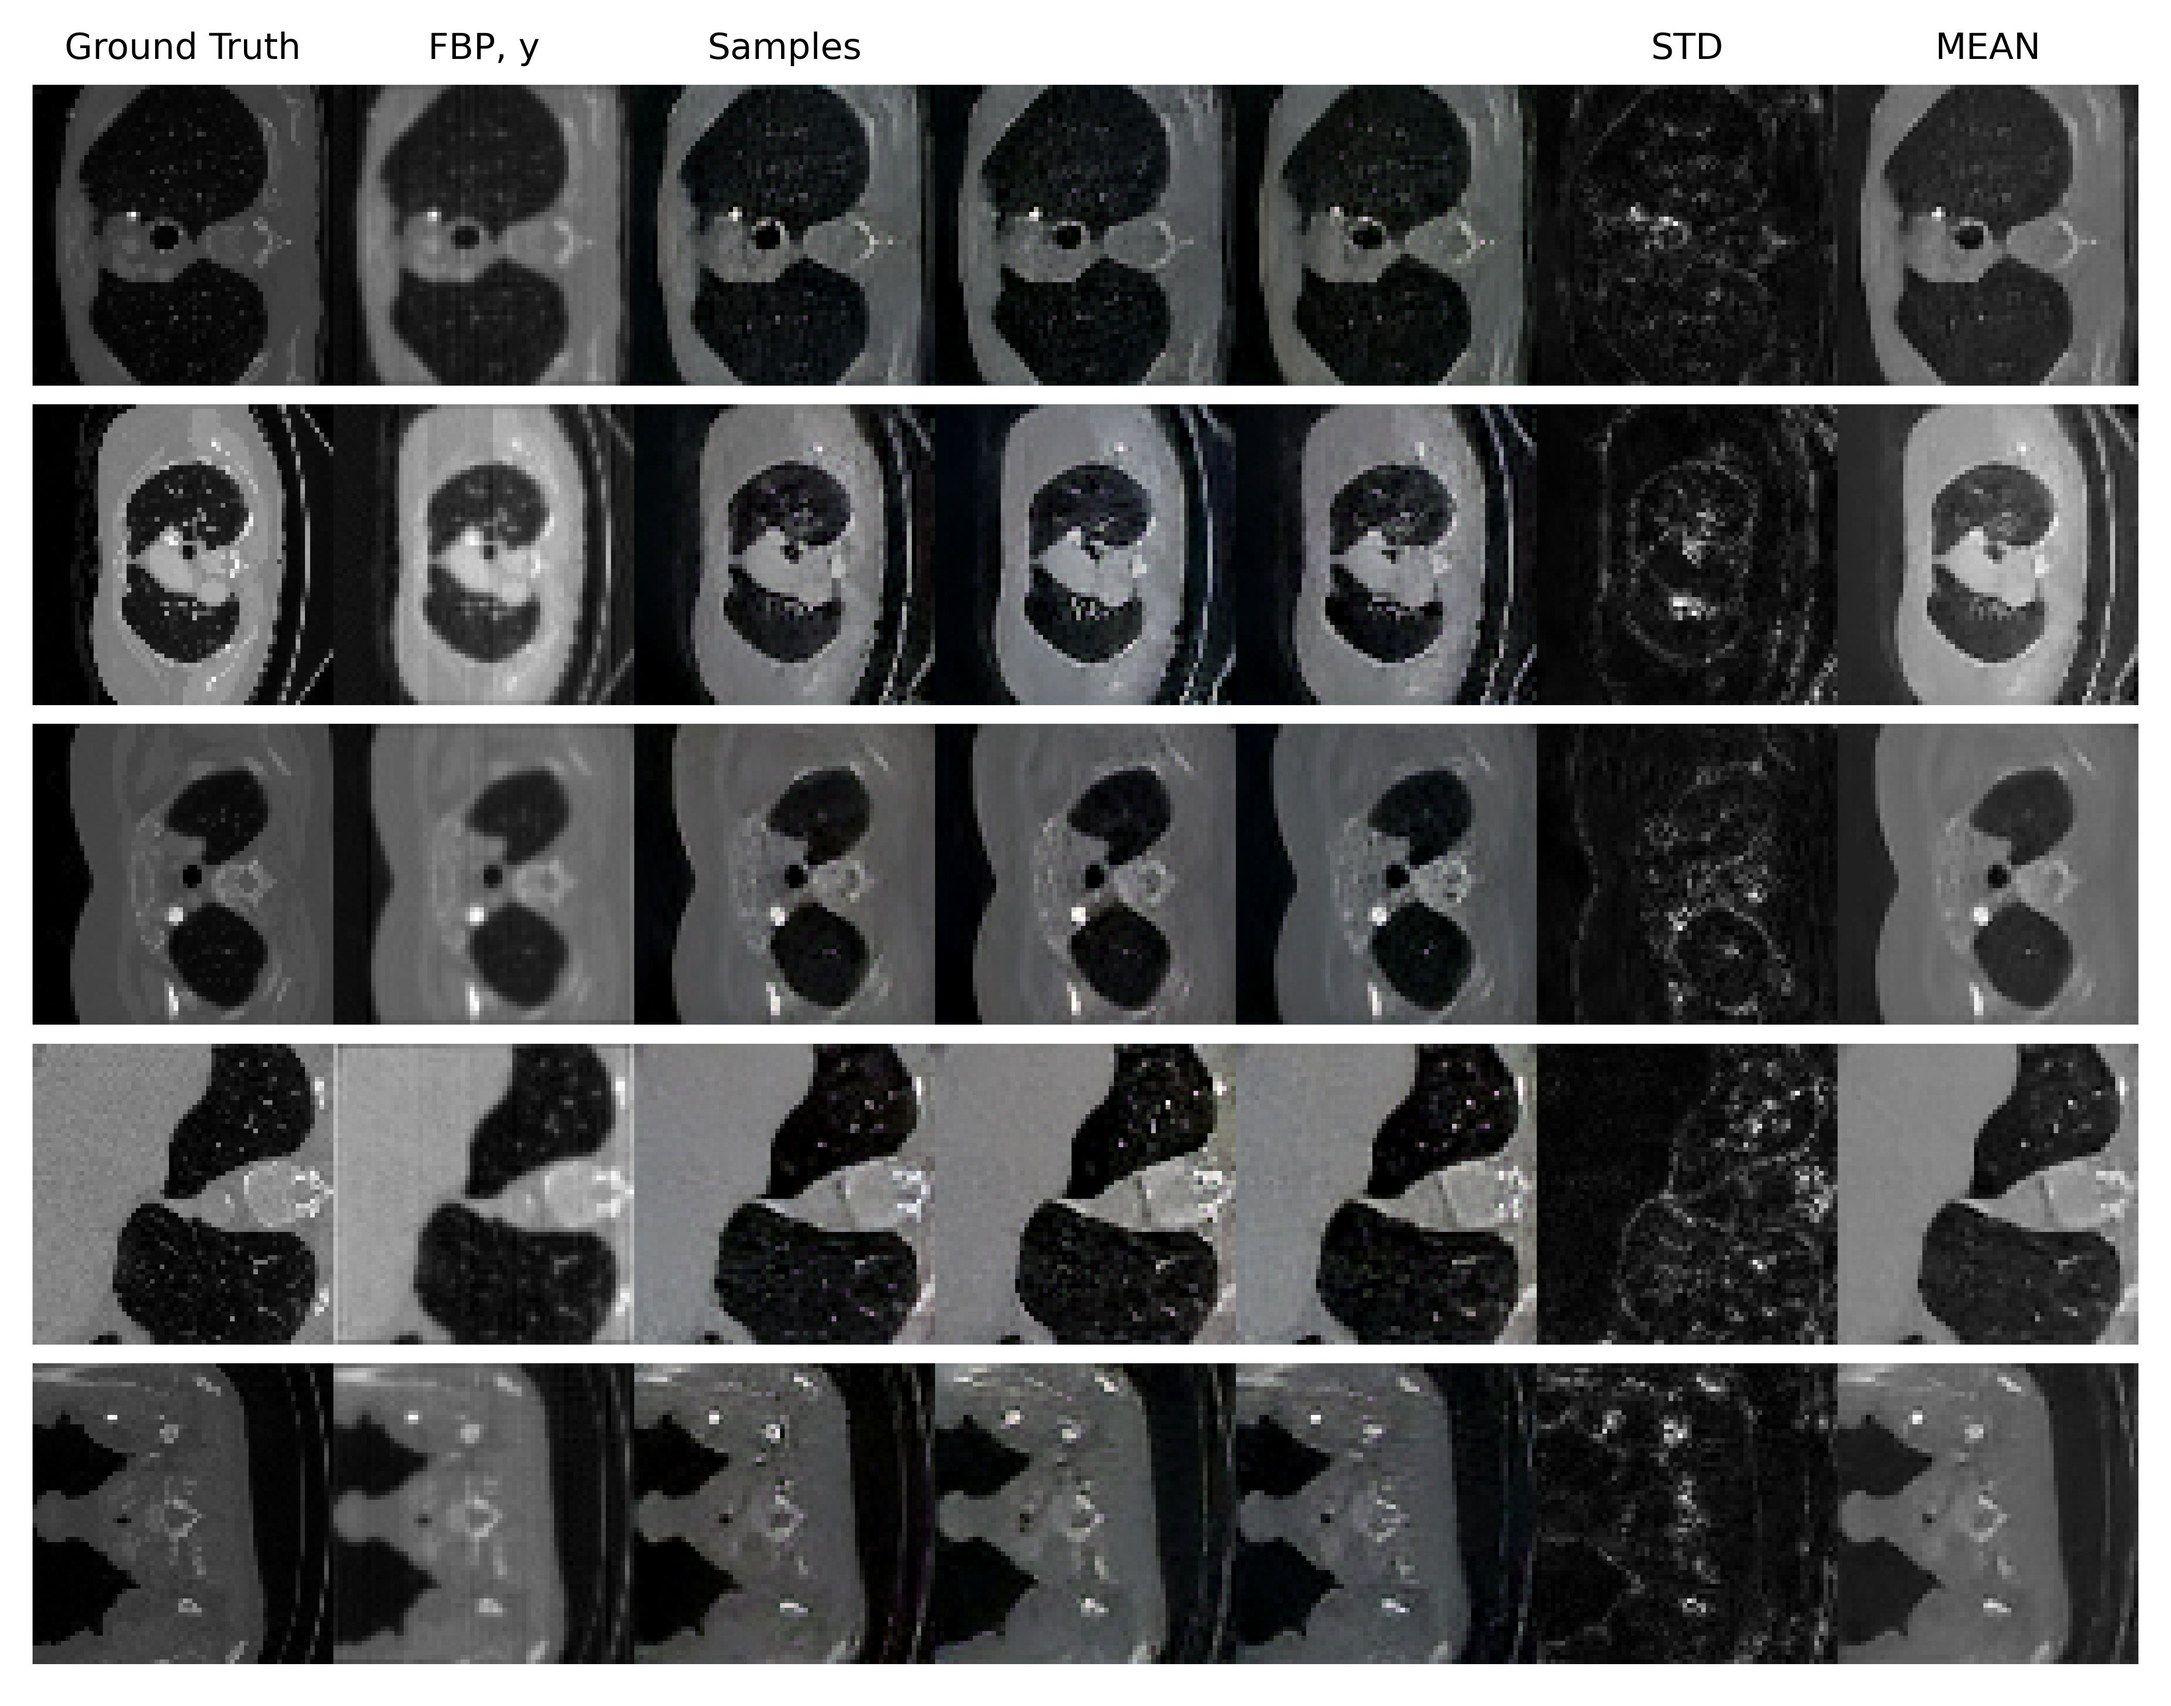
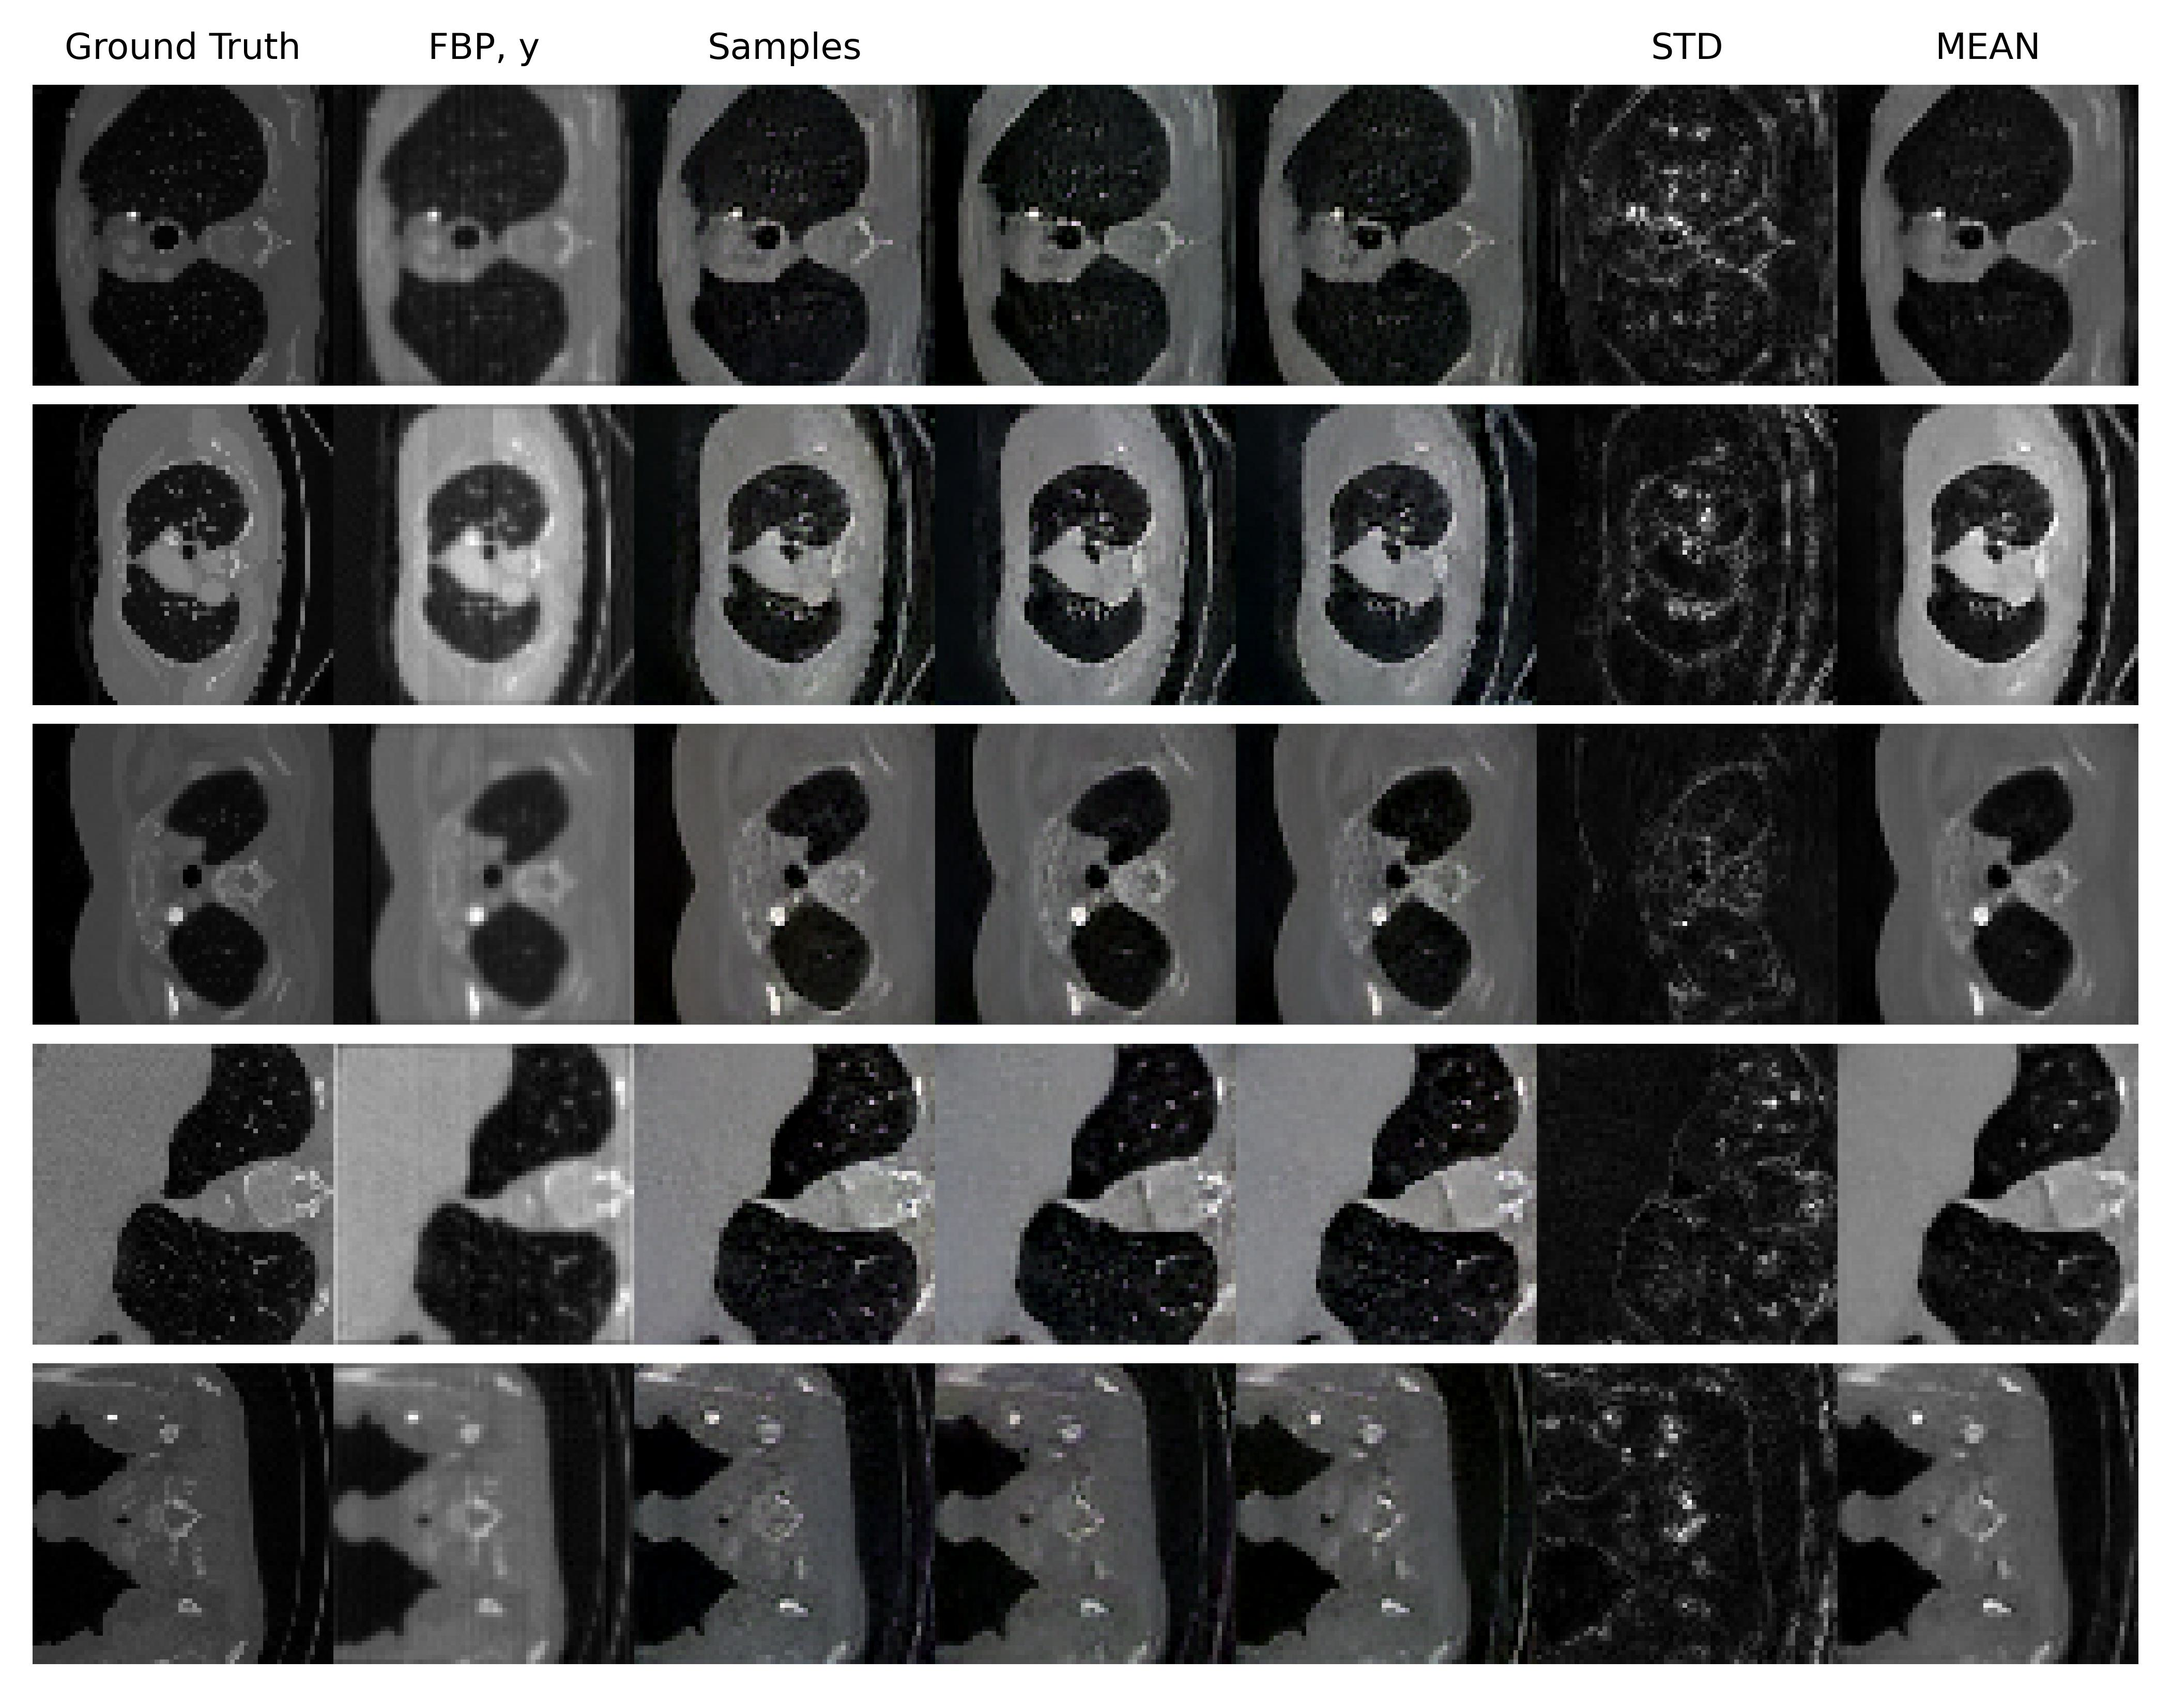
Add psnr and snr estimation

diff --git a/main.py b/main.py
@@ -16,6 +16,7 @@ from torch.optim import Adam
 from ema import ExponentialMovingAverage
 from tqdm import tqdm
 from datetime import datetime
+from skimage.metrics import peak_signal_noise_ratio
 
 # Local file imports
 from ldm.util import instantiate_from_config
@@ -23,6 +24,7 @@ from ldm.models.diffusion.psld import DDIMSampler
 from functions import marginal_prob_std
 from functions import diffusion_coeff
 from models.models import ScoreNet
+from functions import compute_snr
 
 
 # Datasets
@@ -51,16 +53,16 @@ learning_rate = 1e-3
 losses = []
 n_skip_epochs = 4  # Number of epochs to skip for plotting the training
 image_channels = 6
-experiment_dir = "experiments/experiment7/"  # Directory where checkpoint is
+experiment_dir = "experiments/experiment6/"  # Directory where checkpoint is
 
 # Sampling
 num_steps = 100  # Number of sampling steps
 sample_batch_size = 5
 n_angles = 90
 theta_low = 0  # lower value for angles
-theta_max = 90  # higher value for angles
+theta_max = 180  # higher value for angles
 angles = np.linspace(theta_low, theta_max, n_angles)
-n_posterior_samples = 10
+n_posterior_samples = 4
 global_tau = 0.5
 sampling_dir = "sampling1/"  # Directory for current sampling instance
 n_column_samples = 5
@@ -318,6 +320,7 @@ def generate_samples(marginal_prob_std_fn, score_model, diffusion_coeff_fn, im_d
     for i in range(n_posterior_samples):
         for j in range(sample_batch_size):
             samples_clean[i, j:j+1] = autoencoder_model.decode(encoded_samples_clean[i][j:j+1])
+    samples_clean = torch.clamp(samples_clean, min=0, max=1)
 
     # Get STD of samples ===============================================================================================
     # samples tensor has dimensions n_posterior_samples x sample_batch_size x n_channels x im_size x im_size
@@ -332,7 +335,21 @@ def generate_samples(marginal_prob_std_fn, score_model, diffusion_coeff_fn, im_d
     column_visualization(true_images, samples_fbp_clean, samples_clean, rescaled_samples_clean_std, samples_clean_mean,
                          "FBP, y", "Samples", "column_visualization")
 
+    # Compute average SNR and PSNR for samples =========================================================================
+    samples_average_snr = 0
+    samples_average_psnr = 0
+    for i in range(sample_batch_size):
+        samples_average_snr += compute_snr(torch.from_numpy(true_images[i]).permute(2, 0, 1).detach().cpu().numpy(),
+                                           samples_clean_mean[0, i])
+        samples_average_psnr += peak_signal_noise_ratio(
+            torch.from_numpy(true_images[i]).permute(2, 0, 1).detach().cpu().numpy(),
+            samples_clean_mean[0, i])
+    samples_average_psnr = samples_average_psnr / sample_batch_size
+    samples_average_snr = samples_average_snr / sample_batch_size
 
+    print("Sampling Results: " + "\n"
+          "Average PSNR for batch: " + str(samples_average_psnr) + "\n" +
+          "Average SNR for batch: " + str(samples_average_snr) + "\n")
 
 
 def main():
@@ -469,6 +486,6 @@ if __name__ == "__main__":
           "theta_max (Limited view sinograms): " + str(theta_max) + "\n" +
           "experiment_dir: " + str(experiment_dir) + "\n" +
           "sampling_dir: " + str(sampling_dir) + "\n" +
-          "visualisation_cmap: " + str(visualisation_cmap))
+          "visualisation_cmap: " + str(visualisation_cmap) + "\n")
 
     main()
